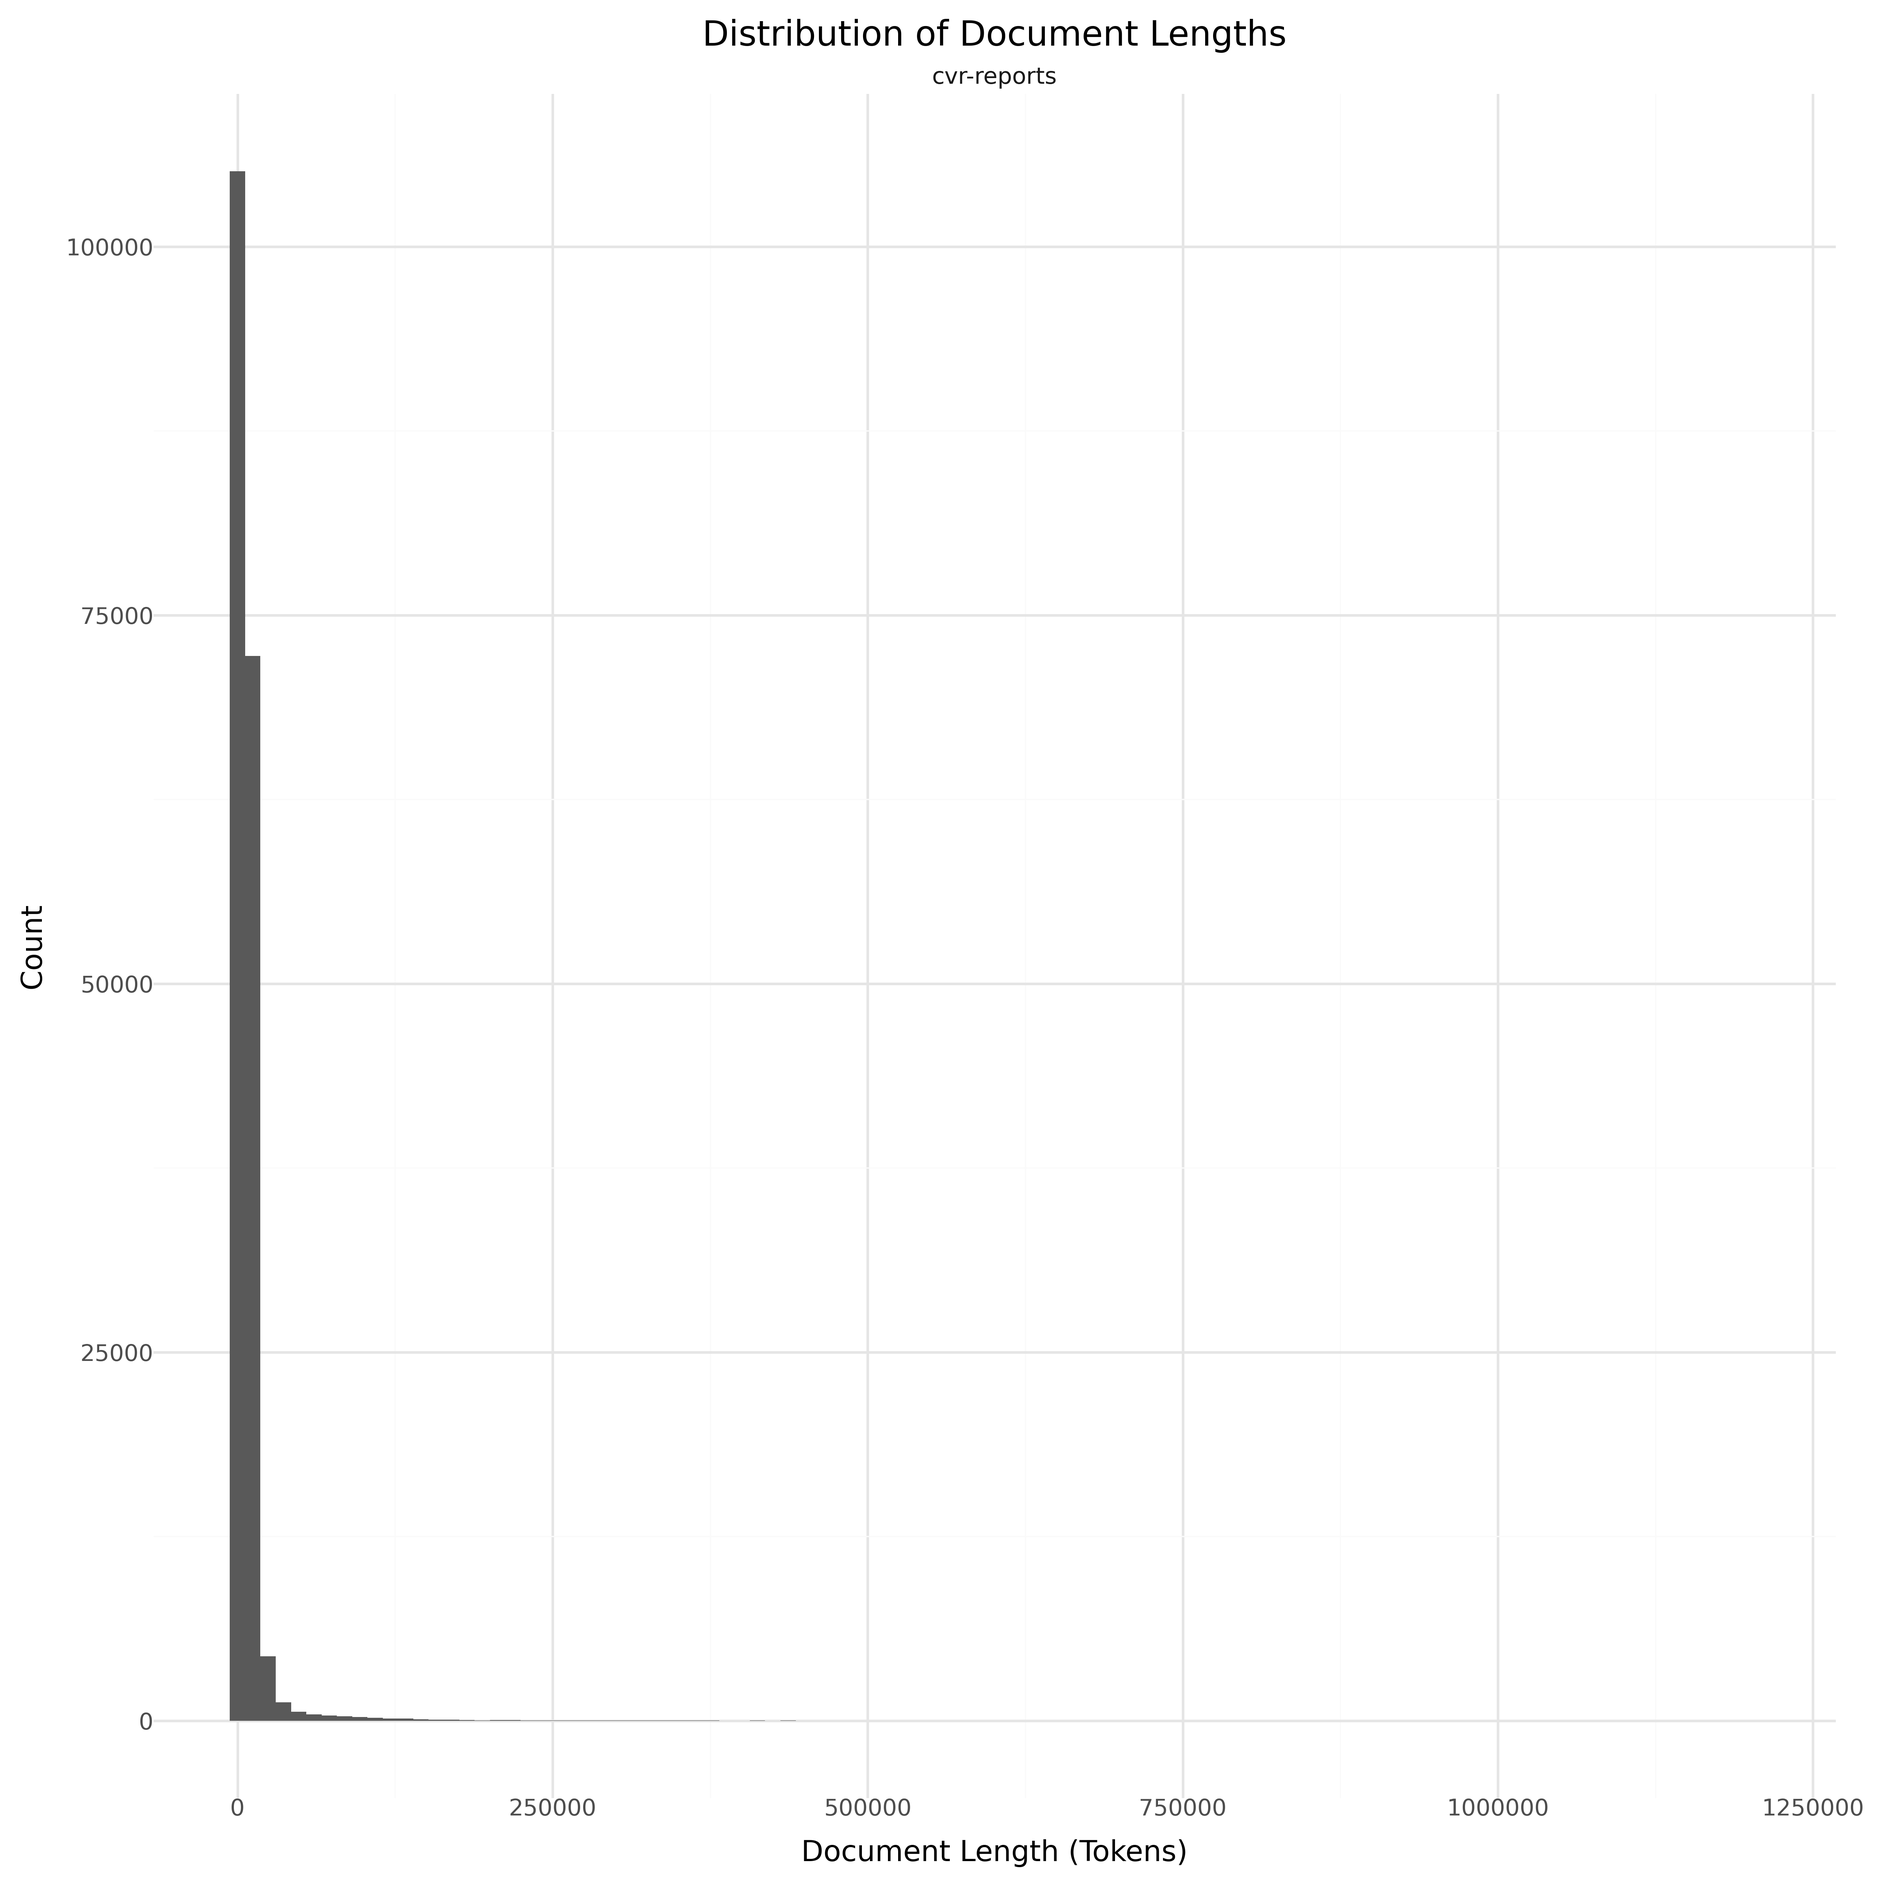
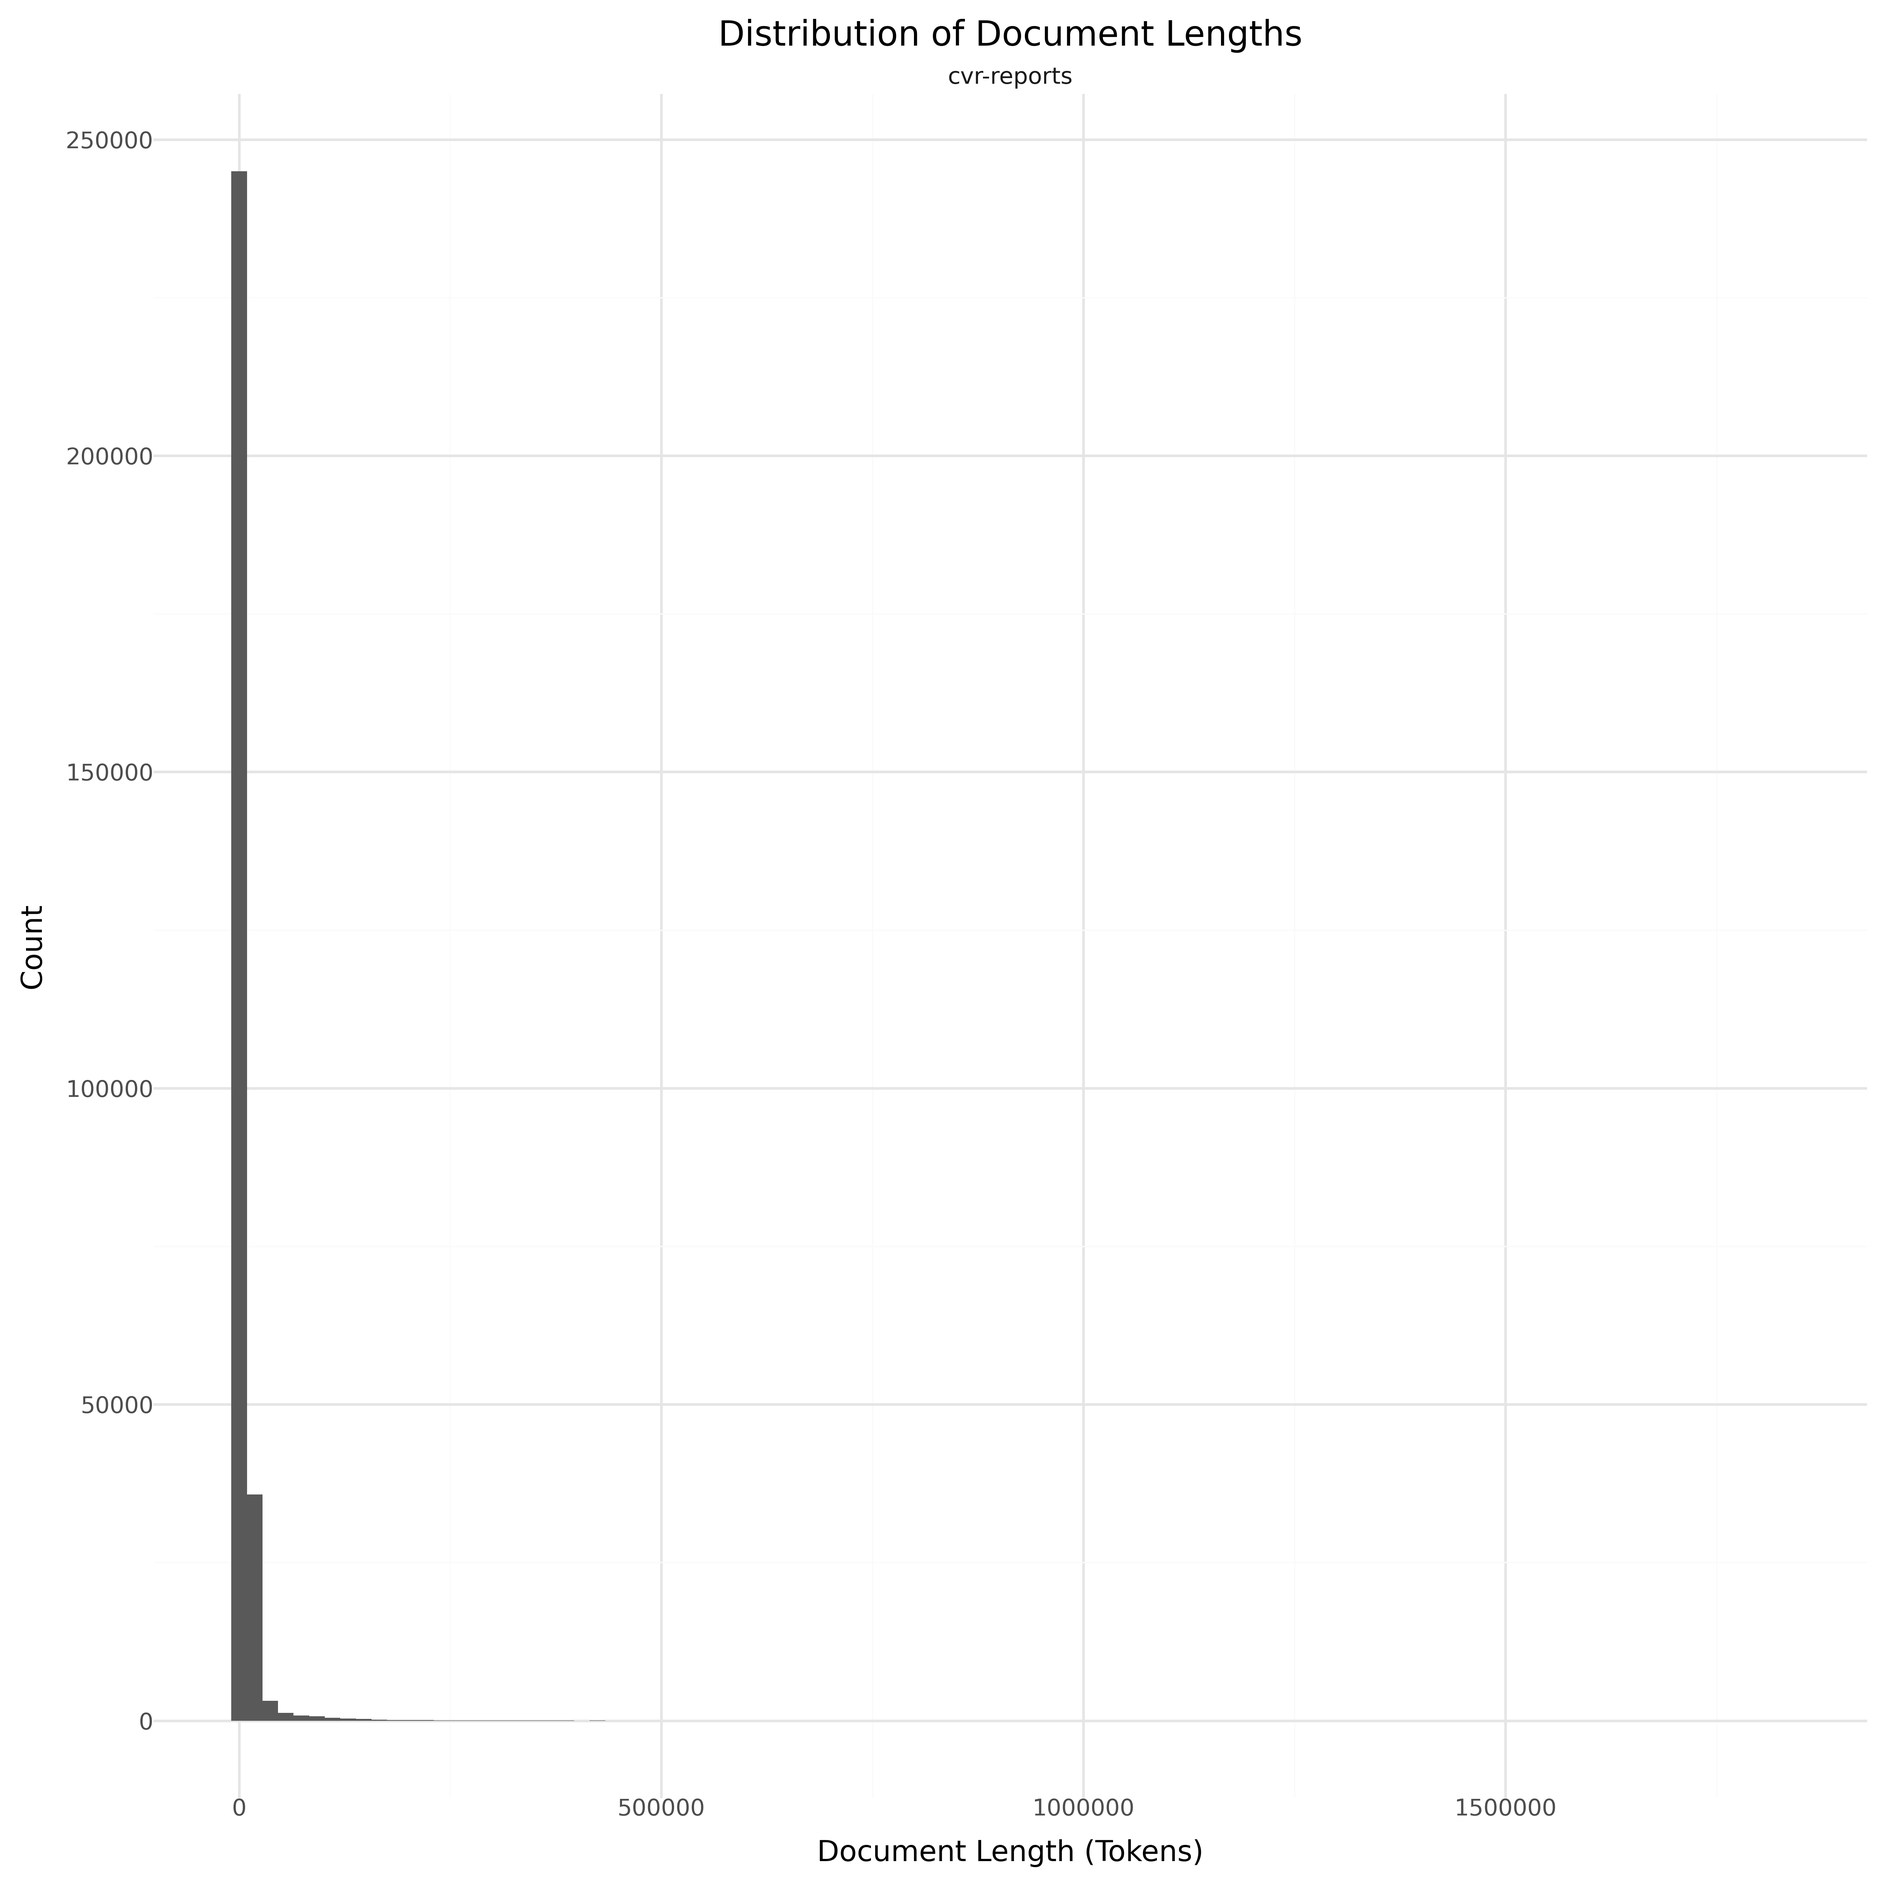
Updating the cvr-reports dataset with the last annual reports.

diff --git a/src/datasheets/typings.py b/src/datasheets/typings.py
@@ -8,6 +8,7 @@ DOMAIN = [
     "Financial",
     "Governmental",
     "Legal",
+    "Medical",
     "News",
     "Other",
     "Readaloud",

diff --git a/README.md b/README.md
@@ -53,9 +53,11 @@ configs:
 - config_name: dbc-faktalink
 - config_name: dbc-forfatterweb
 - config_name: dbc-reviews
-- config_name: scrape_hovedstaden
 - config_name: danish-pd
 - config_name: cvr-reports
+- config_name: health_hovedstaden
+- config_name: grundtvig
+- config_name: domsdatabasen
 annotations_creators:
 - no-annotation
 language_creators:
@@ -110,9 +112,9 @@ This repository contains the datasheets for DFM. This repostory documents.
 
 <!-- START-DESC-STATS -->
 - **Language**: Danish, English, Swedish, Norwegian Bokmål, Norwegian Nynorsk
-- **Number of samples**: 11.53M
-- **Number of tokens (Llama 3)**: 8.62B
-- **Average document length (characters)**: 2527.95
+- **Number of samples**: 11.64M
+- **Number of tokens (Llama 3)**: 9.55B
+- **Average document length (characters)**: 2817.36
 <!-- END-DESC-STATS -->
 
 ### Summary
@@ -131,7 +133,7 @@ We generally split the dataset into two categories: Public release sources and r
 <!-- START-MAIN TABLE -->
 | Source               | Description                                                                                                                                                                                             | Domain       | N. Tokens   | License                                           |
 |:---------------------|:--------------------------------------------------------------------------------------------------------------------------------------------------------------------------------------------------------|:-------------|:------------|:--------------------------------------------------|
-| [cvr-reports]        | Annual reports from danish companies in the period 2010-2025                                                                                                                                            | Financial    | 1.49B       | [Written agreement (public models, private data)] |
+| [cvr-reports]        | Annual reports from danish companies in the period 2010-2025                                                                                                                                            | Financial    | 2.32B       | [Verbal agreement]                                |
 | [cellar]             | The official digital repository for European Union legal documents and open data                                                                                                                        | Legal        | 1.15B       | [CC-BY-SA 4.0]                                    |
 | [plandata]           | A comprehensive dataset consisting of municipal planning documents from across Denmark, including local development plans, municipal plans, planning strategies, and related document types             | Governmental | 1.03B       | [Written agreement (public models, private data)] |
 | [retsinformationdk]  | [retsinformation.dk](https://www.retsinformation.dk) (legal-information.dk) the official legal information system of Denmark                                                                            | Legal        | 818.25M     | [Danish Copyright Law]                            |
@@ -148,6 +150,7 @@ We generally split the dataset into two categories: Public release sources and r
 | [ft]                 | Records from all meetings of The Danish parliament (Folketinget) in the parliament hall                                                                                                                 | Conversation | 114.09M     | [CC-0]                                            |
 | [memo]               | The MeMo corpus comprising almost all Danish novels from the period 1870-1899, known as the Modern Breakthrough                                                                                         | Books        | 113.74M     | [CC-BY-SA 4.0]                                    |
 | [ep]                 | The Danish subsection of [Europarl](https://aclanthology.org/2005.mtsummit-papers.11/)                                                                                                                  | Conversation | 100.84M     | [CC-0]                                            |
+| [domsdatabasen]      | [Domsdatabasen.dk](https://domsdatabasen.dk/) is a public database containing selected judgments from the Danish courts                                                                                 | Legal        | 86.35M      | [Danish Copyright Law]                            |
 | [dsk-dkmedier]       | A collection of ~100K news articles from [DK Medier](https://dkmedier.dk), written in the period 2000-2024                                                                                              | News         | 65.33M      | [DSK-1]                                           |
 | [adl]                | Danish literature from 1700-2023 from the [Archive for Danish Literature](https://tekster.kb.dk/text?editorial=no&f%5Bsubcollection_ssi%5D%5B%5D=adl&match=one&search_field=Alt) (ADL)                  | Books        | 58.49M      | [CC-0]                                            |
 | [retspraksis]        | Case law or judical practice in Denmark derived from [Retspraksis](https://da.wikipedia.org/wiki/Retspraksis)                                                                                           | Legal        | 56.26M      | [CC-0]                                            |
@@ -157,8 +160,9 @@ We generally split the dataset into two categories: Public release sources and r
 | [eur-lex-sum-da]     | The Danish subsection of EUR-lex SUM consisting of EU legislation paired with professionally written summaries                                                                                          | Legal        | 31.37M      | [CC-BY-SA 4.0]                                    |
 | [ncc_maalfrid]       | Danish content from Norwegian institutions websites                                                                                                                                                     | Web          | 29.26M      | [NLOD 2.0]                                        |
 | [dsk-vejle]          | A collection of crawled webpages that is managed by Vejle Kommune. Contains various information, covering everything from tourists to garbage collection to historical knowledge of the area            | Web          | 27.99M      | [DSK-1]                                           |
-| [scrape_hovedstaden] | Digitaliseringsstyrelsen udgiver ét datasæt på baggrund af offentliggjorte tekster fra Region Hovedstadens dokumentsamling                                                                              | Encyclopedic | 27.04M      | [CC-0]                                            |
+| [health_hovedstaden] | Guidelines and informational documents for healthcare professionals from the Capital Region                                                                                                             | Medical      | 27.07M      | [CC-0]                                            |
 | [tv2r]               | Contemporary Danish newswire articles published between 2010 and 2019                                                                                                                                   | News         | 21.67M      | [CC-BY-SA 4.0]                                    |
+| [grundtvig]          | The complete collection of [Grundtvig](https://en.wikipedia.org/wiki/N._F._S._Grundtvig) (1783-1872) one of Denmark’s most influential figures                                                          | Books        | 10.53M      | [CC-0]                                            |
 | [dsk-salling]        | A collection of crawled webpages that is managed by Salling Group. The dataset consists mainly of product pages from online stores such as bilka.dk, br.dk and such. The data consists of ~24K webpages | Web          | 9.79M       | [DSK-1]                                           |
 | [danske-taler]       | Danish Speeches from [dansketaler.dk](https://www.dansketaler.dk)                                                                                                                                       | Conversation | 8.72M       | [CC-0]                                            |
 | [nota]               | The text only part of the [Nota lyd- og tekstdata](https://sprogteknologi.dk/dataset/nota-lyd-og-tekstdata) dataset                                                                                     | Readaloud    | 7.30M       | [CC-0]                                            |
@@ -185,7 +189,7 @@ We generally split the dataset into two categories: Public release sources and r
 | [depbank]            | The Danish subsection of the [Universal Dependencies Treebank](https://github.com/UniversalDependencies/UD_Danish-DDT)                                                                                  | Other        | 185.45K     | [CC-BY-SA 4.0]                                    |
 | [dsk-hofor]          | A collection of articles, guides and newsletters written by HOFOR for their customers                                                                                                                   | Other        | 143.49K     | [DSK-1]                                           |
 | [synne]              | Dataset collected from [synnejysk forening's website](https://www.synnejysk.dk), covering the Danish dialect sønderjysk                                                                                 | Other        | 52.02K      | [CC-0]                                            |
-| **Total**            |                                                                                                                                                                                                         |              | 8.62B       |                                                   |
+| **Total**            |                                                                                                                                                                                                         |              | 9.55B       |                                                   |
 
 [adl]: data/adl/adl.md
 [botxt]: data/botxt/botxt.md
@@ -238,9 +242,11 @@ We generally split the dataset into two categories: Public release sources and r
 [dbc-faktalink]: data/dbc-faktalink/dbc-faktalink.md
 [dbc-forfatterweb]: data/dbc-forfatterweb/dbc-forfatterweb.md
 [dbc-reviews]: data/dbc-reviews/dbc-reviews.md
-[scrape_hovedstaden]: data/scrape_hovedstaden/scrape_hovedstaden.md
 [danish-pd]: data/danish-pd/danish-pd.md
 [cvr-reports]: data/cvr-reports/cvr-reports.md
+[health_hovedstaden]: data/health_hovedstaden/health_hovedstaden.md
+[grundtvig]: data/grundtvig/grundtvig.md
+[domsdatabasen]: data/domsdatabasen/domsdatabasen.md
 
 
 [CC-0]: https://creativecommons.org/publicdomain/zero/1.0/legalcode.en
@@ -269,7 +275,8 @@ We generally split the dataset into two categories: Public release sources and r
 [Written agreement (public models, private data)]: ./data/dbc-forfatterweb/dbc-forfatterweb.md#license-information
 [Written agreement (public models, private data)]: ./data/dbc-reviews/dbc-reviews.md#license-information
 [Public Domain]: ./data/danish-pd/danish-pd.md#license-information
-[Written agreement (public models, private data)]: ./data/cvr-reports/cvr-reports.md#license-information
+[Verbal agreement]: ./data/cvr-reports/cvr-reports.md#license-information
+[Danish Copyright Law]: ./data/domsdatabasen/domsdatabasen.md#license-information
 <!-- END-MAIN TABLE -->
 
 <!-- **Public Release sources**: These sources include datasets that either public released under permissible licenses or where explicit permission have been given by the data owner to train and release models based on the data. The primary source for the non-public training data is [DSK](https://alexandra.dk/dsk/).

diff --git a/data/cvr-reports/cvr-reports.md b/data/cvr-reports/cvr-reports.md
@@ -66,9 +66,9 @@ Once filed, all annual reports are made publicly accessible through the Danish B
 <!-- START-DESC-STATS -->
 - **Language**: Danish, English
 - **Domains**: Financial
-- **Number of samples**: 185.91K
-- **Number of tokens (Llama 3)**: 1.49B
-- **Average document length (characters)**: 31813.61
+- **Number of samples**: 288.35K
+- **Number of tokens (Llama 3)**: 2.32B
+- **Average document length (characters)**: 32183.66
 <!-- END-DESC-STATS -->
 
 
@@ -101,7 +101,7 @@ An entry in the dataset consists of the following fields:
 # Additional Information
 
 ## License Information
-> Indgået mundtlig aftale mellem DFM og repræsentant for Erhversstyrelsen.
+> Indgået mundtlig aftale mellem DFM og repræsentant for Erhversstyrelsen.  
 > Ved spørgsmål kontakt os på mail: kristian.n.jensen@alexandra.dk
 >
 
